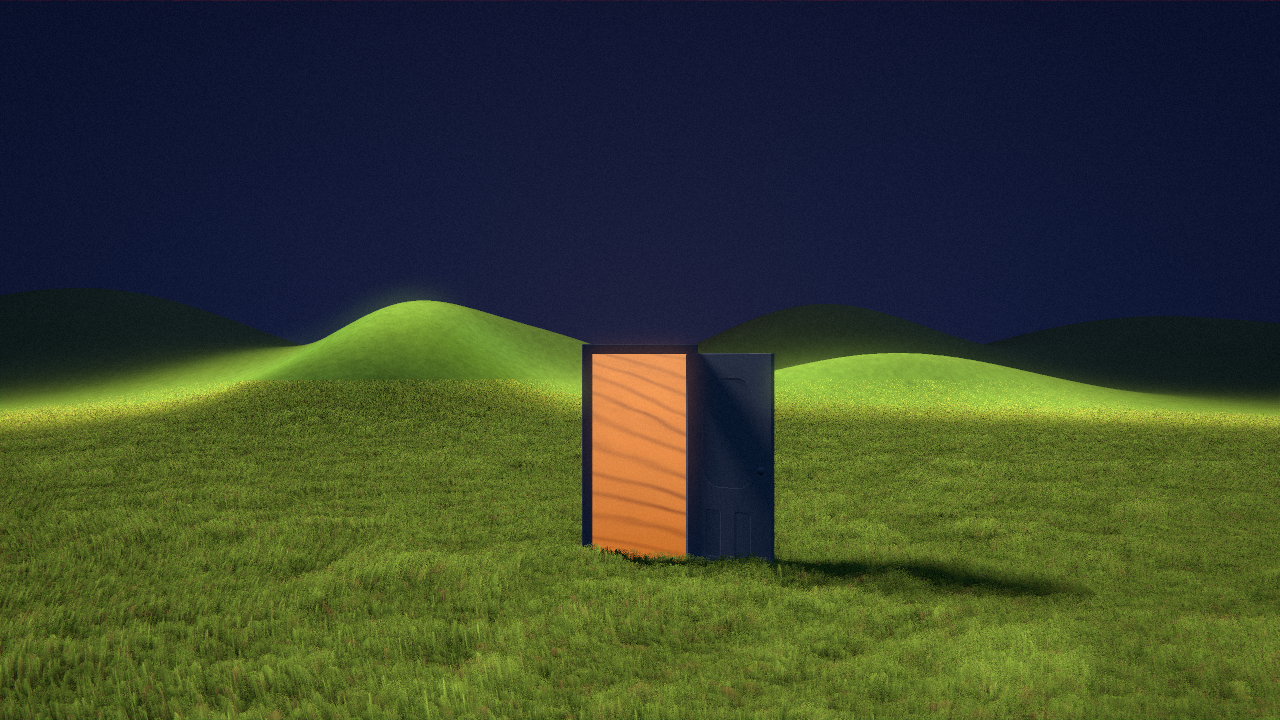
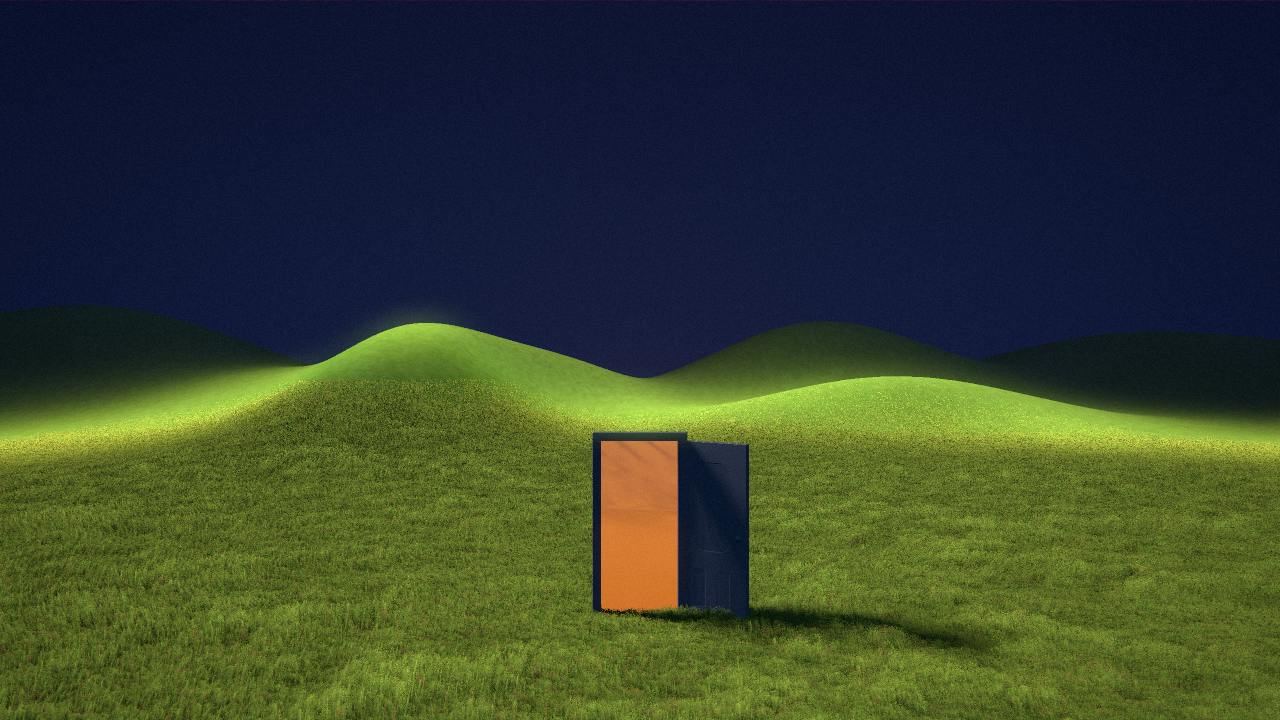
docs(dreamcore): camera 2 m back and 1 m up, first dune brought in to match
The camera rises to 3 m and the door moves out to 11 m. Looking down a little more, the
opening would have lost the second dune, so the first dune now starts 1.5 m in with a
0.6 m crest and the rippled second dune keeps the upper part of the opening. Regenerated
thumbnails and sources.

Claude-Session: https://claude.ai/code/session_017PAyStfp59dbnWGB4mvN35

Changed region(s): [[0.0, 0.3972, 1.0, 1.0]]

diff --git a/apps/docs/lib/examples-source.generated.ts b/apps/docs/lib/examples-source.generated.ts
@@ -82,7 +82,7 @@ export const exampleSources = {
     {
       "name": "example.ts",
       "lang": "typescript",
-      "code": "import type { Effect, Frame, Gpu, Surface, Target } from 'vgpu';\n\nimport blurWgsl from './blur.wgsl';\nimport brightPassWgsl from './bright-pass.wgsl';\nimport { createGrassTile, renderGrassTile, type GrassTile } from './grass-tile';\nimport postWgsl from './post.wgsl';\nimport sceneWgsl from './scene.wgsl';\n\ntype Output = Surface | Target;\n\ninterface ThumbOptions {\n  warmupFrames?: number;\n  dt?: number;\n  /** Seconds into the day/night cycle to freeze. */\n  time?: number;\n}\n\nexport interface DreamcoreFrameOptions {\n  /** 0 = night with the door glowing, 1 = full day. */\n  phase: number;\n  /** Seconds, only drives film grain. */\n  time?: number;\n  /** 1 sample per pixel for live rendering, 4 for stills. */\n  samples?: 1 | 4;\n  /** Full-quality grass march (56 steps); off halves the steps for a cheaper live frame. */\n  grassShadows?: boolean;\n  /** Wind amplitude for the blades (0 for stills). */\n  wind?: number;\n  /**\n   * Debug views of the sand world behind the door: 1 = free camera at a door-local position,\n   * 2 = top-down map, 3 = the main camera inside the sand world (door and opening marked),\n   * 4 = the same without overlays.\n   */\n  debug?: { mode: 1 | 2 | 3 | 4; camera?: readonly [number, number, number] };\n  /** Camera and door overrides on top of LOOK, for exploring alternative framings. */\n  look?: DreamcoreLookOverrides;\n}\n\nexport interface DreamcoreLookOverrides {\n  camera?: Partial<{ height: number; pitch: number; fovY: number }>;\n  door?: Partial<{ x: number; z: number; yaw: number; leaf: number }>;\n  /** First dune of the sand world: start behind the sill (m), stoss slope (tan), crest (m), far field level (m). */\n  dune?: Partial<{ start: number; slope: number; crest: number; far: number }>;\n  /** Second, taller dune: gap after the first crest (m), stoss slope (tan), crest (m), crest line skew (tan). */\n  dune2?: Partial<{ gap: number; slope: number; crest: number; skew: number }>;\n  /** First dune crest skew (tan) and the wind ripples on the second dune: amplitude (m), wavelength (m). */\n  sand?: Partial<{ skew: number; rippleAmp: number; rippleLen: number }>;\n}\n\ninterface Effects {\n  scene: Effect;\n  grassTile: GrassTile;\n  brightPass: Effect;\n  blurH1: Effect;\n  blurV1: Effect;\n  blurH2: Effect;\n  blurV2: Effect;\n  post: Effect;\n  sampler: GPUSampler;\n}\n\ninterface Targets {\n  scene: Target;\n  bloomA: Target;\n  bloomB: Target;\n}\n\nconst HDR_FORMAT: GPUTextureFormat = 'rgba16float';\nconst CLEAR: readonly [number, number, number, number] = [0, 0, 0, 1];\n\n/** Scene constants measured against the reference photos; see scene.wgsl for the units. */\nexport const LOOK = {\n  /** Standing eye height, level horizon; same vertical FOV for any aspect. */\n  camera: { height: 2.0, pitch: 0, fovY: 0.733 },\n  door: { x: 0, z: 9, yaw: 0, leaf: 2.5 },\n  sun: { azimuth: -1.15, elevation: 0.72 },\n  texture: 1,\n  doorLight: 12,\n  /** Blade patch around the door (radius in metres) and tallest blade height. */\n  grass: { radius: 60, height: 0.32 },\n  /** Flat sand for 3 m, a low first dune the eye looks over, and a tall second dune behind it. */\n  dune: { start: 3.0, slope: 0.30, crest: 1.0, far: 1.0 },\n  dune2: { gap: 3.0, slope: 0.5, crest: 4.5, skew: -0.5 },\n  sand: { skew: 0.35, rippleAmp: 0.015, rippleLen: 0.8 },\n  post: { exposure: 1.15, bloomStrength: 0.95, grain: 0.035, vignette: 0.3, nightThreshold: 0.16, dayThreshold: 0.7, knee: 0.1 },\n} as const;\n\n/** Night holds, the day sweeps out of the door, holds, then the night flows back in. */\nexport const CYCLE_SECONDS = 16;\n\n/** Default free-camera position (door-local metres) for the sand-world debug view. */\nconst DEBUG_CAMERA: readonly [number, number, number] = [-11, 4.5, -7];\n\nexport function phaseAt(seconds: number): number {\n  const t = ((seconds % CYCLE_SECONDS) + CYCLE_SECONDS) % CYCLE_SECONDS;\n  if (t < 2.5) return 0;\n  if (t < 9) return ease((t - 2.5) / 6.5);\n  if (t < 12.5) return 1;\n  return 1 - ease((t - 12.5) / 3.5);\n}\n\nfunction ease(x: number): number {\n  const c = Math.min(1, Math.max(0, x));\n  return c * c * (3 - 2 * c);\n}\n\nexport async function run(canvas: HTMLCanvasElement): Promise<() => void> {\n  const { init } = await import('vgpu');\n  const gpu = await init();\n  const surface = gpu.surface(canvas, { dpr: [1, 1.5] });\n  const effects = createEffects(gpu, 'dreamcore-live');\n  const targets = createTargets(gpu, surface.size, 'dreamcore-live');\n  let disposed = false;\n\n  setConstants(effects);\n  setBindings(effects, targets);\n  await prewarm(effects, targets, surface);\n  gpu.frame((frame) => renderGrassTile(frame, effects.grassTile));\n\n  let sawInitialResize = false;\n  const unsubscribeResize = surface.onResize(() => {\n    if (!sawInitialResize) {\n      sawInitialResize = true;\n      return;\n    }\n    if (disposed) return;\n    resizeTargets(targets, surface.size);\n    setBindings(effects, targets);\n  });\n\n  const handle = gpu.frame.loop((frame) => {\n    // Only the two animated values are written each frame; everything else stays as set.\n    setFrame(effects, { phase: phaseAt(gpu.time), time: gpu.time, samples: 1, grassShadows: false, wind: 1 });\n    renderChain(frame, effects, targets, surface);\n  });\n\n  return () => {\n    if (disposed) return;\n    disposed = true;\n    handle.stop();\n    unsubscribeResize();\n    surface.dispose();\n    gpu.dispose();\n  };\n}\n\nexport async function renderThumb(gpu: Gpu, target: Target, opts: ThumbOptions = {}): Promise<void> {\n  const effects = createEffects(gpu, 'dreamcore-thumb');\n  const targets = createTargets(gpu, target.size, 'dreamcore-thumb');\n  setConstants(effects);\n  setBindings(effects, targets);\n  await prewarm(effects, targets, target);\n  gpu.frame((frame) => renderGrassTile(frame, effects.grassTile));\n  const time = opts.time ?? 4.6;\n  renderFrame(gpu, effects, targets, target, { phase: phaseAt(time), time, samples: 4 });\n  await gpu.gpu.queue.onSubmittedWorkDone();\n  await gpu.settled();\n}\n\n/** Renders one still into `target`. Used by the headless keyframe script. */\nexport async function renderStill(gpu: Gpu, target: Target, frameOpts: DreamcoreFrameOptions): Promise<void> {\n  const effects = createEffects(gpu, 'dreamcore-still');\n  const targets = createTargets(gpu, target.size, 'dreamcore-still');\n  setConstants(effects);\n  setBindings(effects, targets);\n  await prewarm(effects, targets, target);\n  gpu.frame((frame) => renderGrassTile(frame, effects.grassTile));\n  renderFrame(gpu, effects, targets, target, frameOpts);\n  await gpu.gpu.queue.onSubmittedWorkDone();\n  await gpu.settled();\n}\n\nfunction createEffects(gpu: Gpu, label: string): Effects {\n  return {\n    scene: gpu.effect(sceneWgsl, { label: `${label}-scene` }),\n    grassTile: createGrassTile(gpu, 2048, `${label}-grass-tile`),\n    brightPass: gpu.effect(brightPassWgsl, { label: `${label}-bright-pass` }),\n    // Each blur pass owns its uniform buffer; sharing one effect would make every pass\n    // observe the last direction written in the frame.\n    blurH1: gpu.effect(blurWgsl, { label: `${label}-blur-h1` }),\n    blurV1: gpu.effect(blurWgsl, { label: `${label}-blur-v1` }),\n    blurH2: gpu.effect(blurWgsl, { label: `${label}-blur-h2` }),\n    blurV2: gpu.effect(blurWgsl, { label: `${label}-blur-v2` }),\n    post: gpu.effect(postWgsl, { label: `${label}-post` }),\n    sampler: gpu.sampler({ minFilter: 'linear', magFilter: 'linear', addressModeU: 'repeat', addressModeV: 'repeat' }),\n  };\n}\n\nfunction createTargets(gpu: Gpu, size: readonly [number, number], label: string): Targets {\n  const full = normalizeSize(size);\n  const half = halfSize(full);\n  return {\n    scene: gpu.target({ size: full, format: HDR_FORMAT, label: `${label}-scene` }),\n    bloomA: gpu.target({ size: half, format: HDR_FORMAT, label: `${label}-bloom-a` }),\n    bloomB: gpu.target({ size: half, format: HDR_FORMAT, label: `${label}-bloom-b` }),\n  };\n}\n\nfunction setConstants(effects: Effects): void {\n  const { camera, door, sun, post, grass } = LOOK;\n  effects.scene.set({\n    params: {\n      time: 0,\n      phase: 0,\n      camera: [camera.height, camera.pitch, camera.fovY, 1],\n      door: [door.x, door.z, door.yaw, door.leaf],\n      look: [sun.azimuth, sun.elevation, LOOK.texture, LOOK.doorLight],\n      grass: [grass.radius, grass.height, 1, 0],\n      debug: [0, 0, 0, 0],\n      dune: [LOOK.dune.start, LOOK.dune.slope, LOOK.dune.crest, LOOK.dune.far],\n      dune2: [LOOK.dune2.gap, LOOK.dune2.slope, LOOK.dune2.crest, LOOK.dune2.skew],\n      sand: [LOOK.sand.skew, LOOK.sand.rippleAmp, LOOK.sand.rippleLen, 0],\n    },\n  });\n  effects.brightPass.set({ samp: effects.sampler, bright: { threshold: post.nightThreshold, knee: post.knee } });\n  effects.blurH1.set({ samp: effects.sampler, blur: { direction: [1, 0], radius: 1 } });\n  effects.blurV1.set({ samp: effects.sampler, blur: { direction: [0, 1], radius: 1 } });\n  effects.blurH2.set({ samp: effects.sampler, blur: { direction: [1, 0], radius: 3.2 } });\n  effects.blurV2.set({ samp: effects.sampler, blur: { direction: [0, 1], radius: 3.2 } });\n  effects.post.set({\n    samp: effects.sampler,\n    post: { exposure: post.exposure, bloomStrength: post.bloomStrength, grain: post.grain, vignette: post.vignette, seed: 0.37, _pad: 0 },\n  });\n}\n\nfunction setBindings(effects: Effects, targets: Targets): void {\n  const tile = effects.grassTile.target;\n  effects.scene.set({\n    params: { resolution: targets.scene.size },\n    tileColor: tile.colors[0],\n    tileTangent: tile.colors[1]!,\n    tileSamp: effects.sampler,\n  });\n  effects.brightPass.set({ src: targets.scene });\n  effects.blurH1.set({ src: targets.bloomA, blur: { texelSize: targets.bloomA.texelSize } });\n  effects.blurV1.set({ src: targets.bloomB, blur: { texelSize: targets.bloomB.texelSize } });\n  effects.blurH2.set({ src: targets.bloomA, blur: { texelSize: targets.bloomA.texelSize } });\n  effects.blurV2.set({ src: targets.bloomB, blur: { texelSize: targets.bloomB.texelSize } });\n  effects.post.set({ scene: targets.scene, bloom: targets.bloomA, post: { resolution: targets.scene.size } });\n}\n\nfunction setFrame(effects: Effects, frame: DreamcoreFrameOptions): void {\n  const phase = Math.min(1, Math.max(0, frame.phase));\n  const { post, grass } = LOOK;\n  const camera = { ...LOOK.camera, ...frame.look?.camera };\n  const door = { ...LOOK.door, ...frame.look?.door };\n  const dune = { ...LOOK.dune, ...frame.look?.dune };\n  const dune2 = { ...LOOK.dune2, ...frame.look?.dune2 };\n  const sand = { ...LOOK.sand, ...frame.look?.sand };\n  effects.scene.set({\n    params: {\n      time: frame.time ?? 0,\n      phase,\n      camera: [camera.height, camera.pitch, camera.fovY, frame.samples ?? 1],\n      door: [door.x, door.z, door.yaw, door.leaf],\n      grass: [grass.radius, grass.height, frame.grassShadows === false ? 0 : 1, frame.wind ?? 0],\n      debug: frame.debug ? [frame.debug.mode, ...(frame.debug.camera ?? DEBUG_CAMERA)] : [0, 0, 0, 0],\n      dune: [dune.start, dune.slope, dune.crest, dune.far],\n      dune2: [dune2.gap, dune2.slope, dune2.crest, dune2.skew],\n      sand: [sand.skew, sand.rippleAmp, sand.rippleLen, 0],\n    },\n  });\n  // The door only needs to bloom at night; by day the threshold rises so the field stays crisp.\n  effects.brightPass.set({ bright: { threshold: post.nightThreshold + (post.dayThreshold - post.nightThreshold) * phase } });\n  // Debug views skip the photographic finish so they stay readable.\n  const finish = frame.debug ? { bloomStrength: 0, grain: 0, vignette: 0 } : { bloomStrength: post.bloomStrength, grain: post.grain, vignette: post.vignette };\n  effects.post.set({ post: { seed: 0.37 + (frame.time ?? 0) * 0.01, ...finish } });\n}\n\nasync function prewarm(effects: Effects, targets: Targets, output: Output): Promise<void> {\n  await Promise.all([\n    effects.scene.compile(targets.scene), effects.brightPass.compile(targets.bloomA), effects.grassTile.draw.compile(effects.grassTile.target),\n    effects.blurH1.compile(targets.bloomB), effects.blurV1.compile(targets.bloomA),\n    effects.blurH2.compile(targets.bloomB), effects.blurV2.compile(targets.bloomA),\n    effects.post.compile({ colors: [output.format] }),\n  ]);\n}\n\nfunction renderChain(frame: Frame, effects: Effects, targets: Targets, output: Output): void {\n  frame.pass({ target: targets.scene, clear: CLEAR }, (pass) => pass.draw(effects.scene));\n  frame.pass({ target: targets.bloomA, clear: CLEAR }, (pass) => pass.draw(effects.brightPass));\n  frame.pass({ target: targets.bloomB, clear: CLEAR }, (pass) => pass.draw(effects.blurH1));\n  frame.pass({ target: targets.bloomA, clear: CLEAR }, (pass) => pass.draw(effects.blurV1));\n  frame.pass({ target: targets.bloomB, clear: CLEAR }, (pass) => pass.draw(effects.blurH2));\n  frame.pass({ target: targets.bloomA, clear: CLEAR }, (pass) => pass.draw(effects.blurV2));\n  frame.pass({ target: output, clear: CLEAR }, (pass) => pass.draw(effects.post));\n}\n\nfunction renderFrame(gpu: Gpu, effects: Effects, targets: Targets, output: Target, frameOpts: DreamcoreFrameOptions): void {\n  setFrame(effects, frameOpts);\n  gpu.frame((frame) => renderChain(frame, effects, targets, output));\n}\n\nfunction resizeTargets(targets: Targets, size: readonly [number, number]): void {\n  const full = normalizeSize(size);\n  targets.scene.resize(full);\n  targets.bloomA.resize(halfSize(full));\n  targets.bloomB.resize(halfSize(full));\n}\n\nfunction normalizeSize(size: readonly [number, number]): [number, number] {\n  return [Math.max(1, Math.floor(size[0])), Math.max(1, Math.floor(size[1]))];\n}\n\nfunction halfSize(size: readonly [number, number]): [number, number] {\n  return [Math.max(1, Math.ceil(size[0] / 2)), Math.max(1, Math.ceil(size[1] / 2))];\n}\n"
+      "code": "import type { Effect, Frame, Gpu, Surface, Target } from 'vgpu';\n\nimport blurWgsl from './blur.wgsl';\nimport brightPassWgsl from './bright-pass.wgsl';\nimport { createGrassTile, renderGrassTile, type GrassTile } from './grass-tile';\nimport postWgsl from './post.wgsl';\nimport sceneWgsl from './scene.wgsl';\n\ntype Output = Surface | Target;\n\ninterface ThumbOptions {\n  warmupFrames?: number;\n  dt?: number;\n  /** Seconds into the day/night cycle to freeze. */\n  time?: number;\n}\n\nexport interface DreamcoreFrameOptions {\n  /** 0 = night with the door glowing, 1 = full day. */\n  phase: number;\n  /** Seconds, only drives film grain. */\n  time?: number;\n  /** 1 sample per pixel for live rendering, 4 for stills. */\n  samples?: 1 | 4;\n  /** Full-quality grass march (56 steps); off halves the steps for a cheaper live frame. */\n  grassShadows?: boolean;\n  /** Wind amplitude for the blades (0 for stills). */\n  wind?: number;\n  /**\n   * Debug views of the sand world behind the door: 1 = free camera at a door-local position,\n   * 2 = top-down map, 3 = the main camera inside the sand world (door and opening marked),\n   * 4 = the same without overlays.\n   */\n  debug?: { mode: 1 | 2 | 3 | 4; camera?: readonly [number, number, number] };\n  /** Camera and door overrides on top of LOOK, for exploring alternative framings. */\n  look?: DreamcoreLookOverrides;\n}\n\nexport interface DreamcoreLookOverrides {\n  camera?: Partial<{ height: number; pitch: number; fovY: number }>;\n  door?: Partial<{ x: number; z: number; yaw: number; leaf: number }>;\n  /** First dune of the sand world: start behind the sill (m), stoss slope (tan), crest (m), far field level (m). */\n  dune?: Partial<{ start: number; slope: number; crest: number; far: number }>;\n  /** Second, taller dune: gap after the first crest (m), stoss slope (tan), crest (m), crest line skew (tan). */\n  dune2?: Partial<{ gap: number; slope: number; crest: number; skew: number }>;\n  /** First dune crest skew (tan) and the wind ripples on the second dune: amplitude (m), wavelength (m). */\n  sand?: Partial<{ skew: number; rippleAmp: number; rippleLen: number }>;\n}\n\ninterface Effects {\n  scene: Effect;\n  grassTile: GrassTile;\n  brightPass: Effect;\n  blurH1: Effect;\n  blurV1: Effect;\n  blurH2: Effect;\n  blurV2: Effect;\n  post: Effect;\n  sampler: GPUSampler;\n}\n\ninterface Targets {\n  scene: Target;\n  bloomA: Target;\n  bloomB: Target;\n}\n\nconst HDR_FORMAT: GPUTextureFormat = 'rgba16float';\nconst CLEAR: readonly [number, number, number, number] = [0, 0, 0, 1];\n\n/** Scene constants measured against the reference photos; see scene.wgsl for the units. */\nexport const LOOK = {\n  /** Standing eye height, level horizon; same vertical FOV for any aspect. */\n  camera: { height: 3.0, pitch: 0, fovY: 0.733 },\n  door: { x: 0, z: 11, yaw: 0, leaf: 2.5 },\n  sun: { azimuth: -1.15, elevation: 0.72 },\n  texture: 1,\n  doorLight: 12,\n  /** Blade patch around the door (radius in metres) and tallest blade height. */\n  grass: { radius: 60, height: 0.32 },\n  /** Flat sand for 3 m, a low first dune the eye looks over, and a tall second dune behind it. */\n  dune: { start: 1.5, slope: 0.35, crest: 0.6, far: 1.0 },\n  dune2: { gap: 3.0, slope: 0.5, crest: 4.5, skew: -0.5 },\n  sand: { skew: 0.35, rippleAmp: 0.015, rippleLen: 0.8 },\n  post: { exposure: 1.15, bloomStrength: 0.95, grain: 0.035, vignette: 0.3, nightThreshold: 0.16, dayThreshold: 0.7, knee: 0.1 },\n} as const;\n\n/** Night holds, the day sweeps out of the door, holds, then the night flows back in. */\nexport const CYCLE_SECONDS = 16;\n\n/** Default free-camera position (door-local metres) for the sand-world debug view. */\nconst DEBUG_CAMERA: readonly [number, number, number] = [-11, 4.5, -7];\n\nexport function phaseAt(seconds: number): number {\n  const t = ((seconds % CYCLE_SECONDS) + CYCLE_SECONDS) % CYCLE_SECONDS;\n  if (t < 2.5) return 0;\n  if (t < 9) return ease((t - 2.5) / 6.5);\n  if (t < 12.5) return 1;\n  return 1 - ease((t - 12.5) / 3.5);\n}\n\nfunction ease(x: number): number {\n  const c = Math.min(1, Math.max(0, x));\n  return c * c * (3 - 2 * c);\n}\n\nexport async function run(canvas: HTMLCanvasElement): Promise<() => void> {\n  const { init } = await import('vgpu');\n  const gpu = await init();\n  const surface = gpu.surface(canvas, { dpr: [1, 1.5] });\n  const effects = createEffects(gpu, 'dreamcore-live');\n  const targets = createTargets(gpu, surface.size, 'dreamcore-live');\n  let disposed = false;\n\n  setConstants(effects);\n  setBindings(effects, targets);\n  await prewarm(effects, targets, surface);\n  gpu.frame((frame) => renderGrassTile(frame, effects.grassTile));\n\n  let sawInitialResize = false;\n  const unsubscribeResize = surface.onResize(() => {\n    if (!sawInitialResize) {\n      sawInitialResize = true;\n      return;\n    }\n    if (disposed) return;\n    resizeTargets(targets, surface.size);\n    setBindings(effects, targets);\n  });\n\n  const handle = gpu.frame.loop((frame) => {\n    // Only the two animated values are written each frame; everything else stays as set.\n    setFrame(effects, { phase: phaseAt(gpu.time), time: gpu.time, samples: 1, grassShadows: false, wind: 1 });\n    renderChain(frame, effects, targets, surface);\n  });\n\n  return () => {\n    if (disposed) return;\n    disposed = true;\n    handle.stop();\n    unsubscribeResize();\n    surface.dispose();\n    gpu.dispose();\n  };\n}\n\nexport async function renderThumb(gpu: Gpu, target: Target, opts: ThumbOptions = {}): Promise<void> {\n  const effects = createEffects(gpu, 'dreamcore-thumb');\n  const targets = createTargets(gpu, target.size, 'dreamcore-thumb');\n  setConstants(effects);\n  setBindings(effects, targets);\n  await prewarm(effects, targets, target);\n  gpu.frame((frame) => renderGrassTile(frame, effects.grassTile));\n  const time = opts.time ?? 4.6;\n  renderFrame(gpu, effects, targets, target, { phase: phaseAt(time), time, samples: 4 });\n  await gpu.gpu.queue.onSubmittedWorkDone();\n  await gpu.settled();\n}\n\n/** Renders one still into `target`. Used by the headless keyframe script. */\nexport async function renderStill(gpu: Gpu, target: Target, frameOpts: DreamcoreFrameOptions): Promise<void> {\n  const effects = createEffects(gpu, 'dreamcore-still');\n  const targets = createTargets(gpu, target.size, 'dreamcore-still');\n  setConstants(effects);\n  setBindings(effects, targets);\n  await prewarm(effects, targets, target);\n  gpu.frame((frame) => renderGrassTile(frame, effects.grassTile));\n  renderFrame(gpu, effects, targets, target, frameOpts);\n  await gpu.gpu.queue.onSubmittedWorkDone();\n  await gpu.settled();\n}\n\nfunction createEffects(gpu: Gpu, label: string): Effects {\n  return {\n    scene: gpu.effect(sceneWgsl, { label: `${label}-scene` }),\n    grassTile: createGrassTile(gpu, 2048, `${label}-grass-tile`),\n    brightPass: gpu.effect(brightPassWgsl, { label: `${label}-bright-pass` }),\n    // Each blur pass owns its uniform buffer; sharing one effect would make every pass\n    // observe the last direction written in the frame.\n    blurH1: gpu.effect(blurWgsl, { label: `${label}-blur-h1` }),\n    blurV1: gpu.effect(blurWgsl, { label: `${label}-blur-v1` }),\n    blurH2: gpu.effect(blurWgsl, { label: `${label}-blur-h2` }),\n    blurV2: gpu.effect(blurWgsl, { label: `${label}-blur-v2` }),\n    post: gpu.effect(postWgsl, { label: `${label}-post` }),\n    sampler: gpu.sampler({ minFilter: 'linear', magFilter: 'linear', addressModeU: 'repeat', addressModeV: 'repeat' }),\n  };\n}\n\nfunction createTargets(gpu: Gpu, size: readonly [number, number], label: string): Targets {\n  const full = normalizeSize(size);\n  const half = halfSize(full);\n  return {\n    scene: gpu.target({ size: full, format: HDR_FORMAT, label: `${label}-scene` }),\n    bloomA: gpu.target({ size: half, format: HDR_FORMAT, label: `${label}-bloom-a` }),\n    bloomB: gpu.target({ size: half, format: HDR_FORMAT, label: `${label}-bloom-b` }),\n  };\n}\n\nfunction setConstants(effects: Effects): void {\n  const { camera, door, sun, post, grass } = LOOK;\n  effects.scene.set({\n    params: {\n      time: 0,\n      phase: 0,\n      camera: [camera.height, camera.pitch, camera.fovY, 1],\n      door: [door.x, door.z, door.yaw, door.leaf],\n      look: [sun.azimuth, sun.elevation, LOOK.texture, LOOK.doorLight],\n      grass: [grass.radius, grass.height, 1, 0],\n      debug: [0, 0, 0, 0],\n      dune: [LOOK.dune.start, LOOK.dune.slope, LOOK.dune.crest, LOOK.dune.far],\n      dune2: [LOOK.dune2.gap, LOOK.dune2.slope, LOOK.dune2.crest, LOOK.dune2.skew],\n      sand: [LOOK.sand.skew, LOOK.sand.rippleAmp, LOOK.sand.rippleLen, 0],\n    },\n  });\n  effects.brightPass.set({ samp: effects.sampler, bright: { threshold: post.nightThreshold, knee: post.knee } });\n  effects.blurH1.set({ samp: effects.sampler, blur: { direction: [1, 0], radius: 1 } });\n  effects.blurV1.set({ samp: effects.sampler, blur: { direction: [0, 1], radius: 1 } });\n  effects.blurH2.set({ samp: effects.sampler, blur: { direction: [1, 0], radius: 3.2 } });\n  effects.blurV2.set({ samp: effects.sampler, blur: { direction: [0, 1], radius: 3.2 } });\n  effects.post.set({\n    samp: effects.sampler,\n    post: { exposure: post.exposure, bloomStrength: post.bloomStrength, grain: post.grain, vignette: post.vignette, seed: 0.37, _pad: 0 },\n  });\n}\n\nfunction setBindings(effects: Effects, targets: Targets): void {\n  const tile = effects.grassTile.target;\n  effects.scene.set({\n    params: { resolution: targets.scene.size },\n    tileColor: tile.colors[0],\n    tileTangent: tile.colors[1]!,\n    tileSamp: effects.sampler,\n  });\n  effects.brightPass.set({ src: targets.scene });\n  effects.blurH1.set({ src: targets.bloomA, blur: { texelSize: targets.bloomA.texelSize } });\n  effects.blurV1.set({ src: targets.bloomB, blur: { texelSize: targets.bloomB.texelSize } });\n  effects.blurH2.set({ src: targets.bloomA, blur: { texelSize: targets.bloomA.texelSize } });\n  effects.blurV2.set({ src: targets.bloomB, blur: { texelSize: targets.bloomB.texelSize } });\n  effects.post.set({ scene: targets.scene, bloom: targets.bloomA, post: { resolution: targets.scene.size } });\n}\n\nfunction setFrame(effects: Effects, frame: DreamcoreFrameOptions): void {\n  const phase = Math.min(1, Math.max(0, frame.phase));\n  const { post, grass } = LOOK;\n  const camera = { ...LOOK.camera, ...frame.look?.camera };\n  const door = { ...LOOK.door, ...frame.look?.door };\n  const dune = { ...LOOK.dune, ...frame.look?.dune };\n  const dune2 = { ...LOOK.dune2, ...frame.look?.dune2 };\n  const sand = { ...LOOK.sand, ...frame.look?.sand };\n  effects.scene.set({\n    params: {\n      time: frame.time ?? 0,\n      phase,\n      camera: [camera.height, camera.pitch, camera.fovY, frame.samples ?? 1],\n      door: [door.x, door.z, door.yaw, door.leaf],\n      grass: [grass.radius, grass.height, frame.grassShadows === false ? 0 : 1, frame.wind ?? 0],\n      debug: frame.debug ? [frame.debug.mode, ...(frame.debug.camera ?? DEBUG_CAMERA)] : [0, 0, 0, 0],\n      dune: [dune.start, dune.slope, dune.crest, dune.far],\n      dune2: [dune2.gap, dune2.slope, dune2.crest, dune2.skew],\n      sand: [sand.skew, sand.rippleAmp, sand.rippleLen, 0],\n    },\n  });\n  // The door only needs to bloom at night; by day the threshold rises so the field stays crisp.\n  effects.brightPass.set({ bright: { threshold: post.nightThreshold + (post.dayThreshold - post.nightThreshold) * phase } });\n  // Debug views skip the photographic finish so they stay readable.\n  const finish = frame.debug ? { bloomStrength: 0, grain: 0, vignette: 0 } : { bloomStrength: post.bloomStrength, grain: post.grain, vignette: post.vignette };\n  effects.post.set({ post: { seed: 0.37 + (frame.time ?? 0) * 0.01, ...finish } });\n}\n\nasync function prewarm(effects: Effects, targets: Targets, output: Output): Promise<void> {\n  await Promise.all([\n    effects.scene.compile(targets.scene), effects.brightPass.compile(targets.bloomA), effects.grassTile.draw.compile(effects.grassTile.target),\n    effects.blurH1.compile(targets.bloomB), effects.blurV1.compile(targets.bloomA),\n    effects.blurH2.compile(targets.bloomB), effects.blurV2.compile(targets.bloomA),\n    effects.post.compile({ colors: [output.format] }),\n  ]);\n}\n\nfunction renderChain(frame: Frame, effects: Effects, targets: Targets, output: Output): void {\n  frame.pass({ target: targets.scene, clear: CLEAR }, (pass) => pass.draw(effects.scene));\n  frame.pass({ target: targets.bloomA, clear: CLEAR }, (pass) => pass.draw(effects.brightPass));\n  frame.pass({ target: targets.bloomB, clear: CLEAR }, (pass) => pass.draw(effects.blurH1));\n  frame.pass({ target: targets.bloomA, clear: CLEAR }, (pass) => pass.draw(effects.blurV1));\n  frame.pass({ target: targets.bloomB, clear: CLEAR }, (pass) => pass.draw(effects.blurH2));\n  frame.pass({ target: targets.bloomA, clear: CLEAR }, (pass) => pass.draw(effects.blurV2));\n  frame.pass({ target: output, clear: CLEAR }, (pass) => pass.draw(effects.post));\n}\n\nfunction renderFrame(gpu: Gpu, effects: Effects, targets: Targets, output: Target, frameOpts: DreamcoreFrameOptions): void {\n  setFrame(effects, frameOpts);\n  gpu.frame((frame) => renderChain(frame, effects, targets, output));\n}\n\nfunction resizeTargets(targets: Targets, size: readonly [number, number]): void {\n  const full = normalizeSize(size);\n  targets.scene.resize(full);\n  targets.bloomA.resize(halfSize(full));\n  targets.bloomB.resize(halfSize(full));\n}\n\nfunction normalizeSize(size: readonly [number, number]): [number, number] {\n  return [Math.max(1, Math.floor(size[0])), Math.max(1, Math.floor(size[1]))];\n}\n\nfunction halfSize(size: readonly [number, number]): [number, number] {\n  return [Math.max(1, Math.ceil(size[0] / 2)), Math.max(1, Math.ceil(size[1] / 2))];\n}\n"
     },
     {
       "name": "grass-tile.ts",

diff --git a/apps/docs/examples/dreamcore/example.ts b/apps/docs/examples/dreamcore/example.ts
@@ -71,15 +71,15 @@ const CLEAR: readonly [number, number, number, number] = [0, 0, 0, 1];
 /** Scene constants measured against the reference photos; see scene.wgsl for the units. */
 export const LOOK = {
   /** Standing eye height, level horizon; same vertical FOV for any aspect. */
-  camera: { height: 2.0, pitch: 0, fovY: 0.733 },
-  door: { x: 0, z: 9, yaw: 0, leaf: 2.5 },
+  camera: { height: 3.0, pitch: 0, fovY: 0.733 },
+  door: { x: 0, z: 11, yaw: 0, leaf: 2.5 },
   sun: { azimuth: -1.15, elevation: 0.72 },
   texture: 1,
   doorLight: 12,
   /** Blade patch around the door (radius in metres) and tallest blade height. */
   grass: { radius: 60, height: 0.32 },
   /** Flat sand for 3 m, a low first dune the eye looks over, and a tall second dune behind it. */
-  dune: { start: 3.0, slope: 0.30, crest: 1.0, far: 1.0 },
+  dune: { start: 1.5, slope: 0.35, crest: 0.6, far: 1.0 },
   dune2: { gap: 3.0, slope: 0.5, crest: 4.5, skew: -0.5 },
   sand: { skew: 0.35, rippleAmp: 0.015, rippleLen: 0.8 },
   post: { exposure: 1.15, bloomStrength: 0.95, grain: 0.035, vignette: 0.3, nightThreshold: 0.16, dayThreshold: 0.7, knee: 0.1 },
